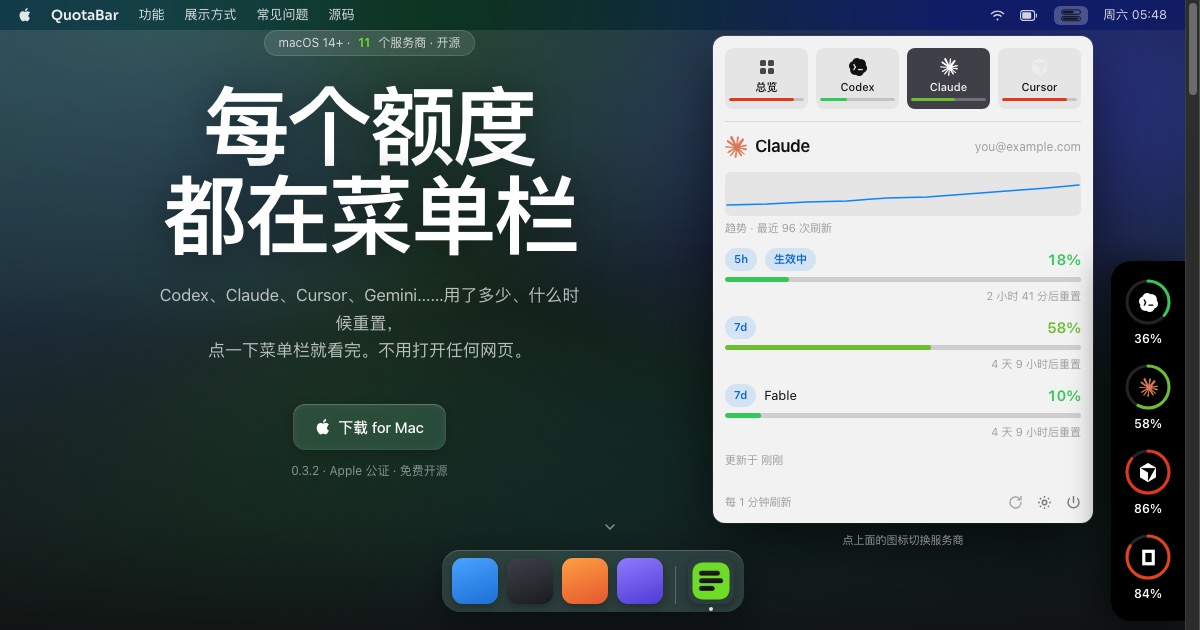
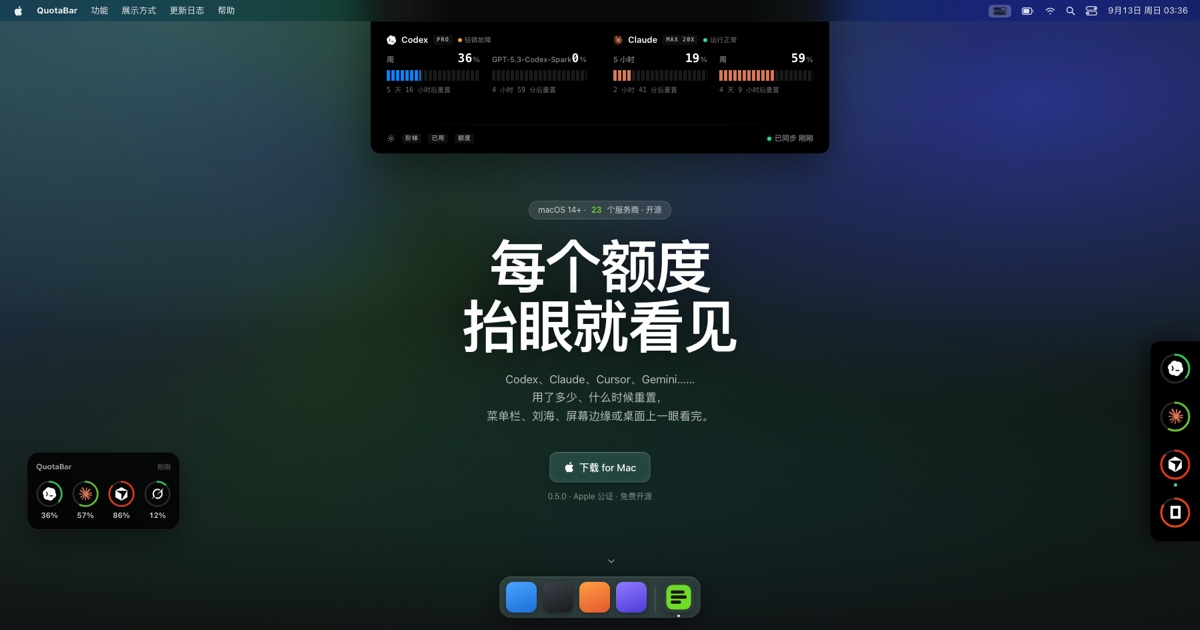
Site: a new share image and settings shot for 0.5.0, a subtitle that breaks on phrases, image changes bust the asset stamp

diff --git a/web/index.html b/web/index.html
@@ -14,21 +14,21 @@
 <meta property="og:site_name" content="QuotaBar">
 <meta property="og:locale" content="zh_CN">
 <!-- 1200×630 首屏截图。没有这张，分享到微信 / Slack / X 全是纯文字卡片。 -->
-<meta property="og:image" content="https://quota.bar/assets/og.jpg?v=b996ee81">
+<meta property="og:image" content="https://quota.bar/assets/og.jpg?v=e92ca10a">
 <meta property="og:image:width" content="1200">
 <meta property="og:image:height" content="630">
 <meta property="og:image:alt" content="QuotaBar 的刘海岛面板、边缘停靠条与桌面卡片">
 <meta name="twitter:card" content="summary_large_image">
 <meta name="twitter:title" content="QuotaBar — 每个 AI 编码额度，抬眼就看见">
 <meta name="twitter:description" content="用了多少、什么时候重置，一眼看完。本地读取，数据不出本机。">
-<meta name="twitter:image" content="https://quota.bar/assets/og.jpg?v=b996ee81">
-<link rel="icon" type="image/png" sizes="256x256" href="assets/icon.png?v=b996ee81">
+<meta name="twitter:image" content="https://quota.bar/assets/og.jpg?v=e92ca10a">
+<link rel="icon" type="image/png" sizes="256x256" href="assets/icon.png?v=e92ca10a">
 <link rel="icon" sizes="48x48" href="/favicon.ico">
 <!-- 单独一张 180×180 且不透明：iOS 会把透明区合成到黑底，直接复用带 alpha 的
      256×256 主图标会得到一圈黑边。 -->
-<link rel="apple-touch-icon" sizes="180x180" href="assets/apple-touch-icon.png?v=b996ee81">
-<link rel="stylesheet" href="styles.css?v=b996ee81">
-<link rel="stylesheet" href="replica.css?v=b996ee81">
+<link rel="apple-touch-icon" sizes="180x180" href="assets/apple-touch-icon.png?v=e92ca10a">
+<link rel="stylesheet" href="styles.css?v=e92ca10a">
+<link rel="stylesheet" href="replica.css?v=e92ca10a">
 <!-- 自建统计。defer，不阻塞渲染；跨域脚本不参与本站的 ?v= 指纹。 -->
 <script defer src="https://tongji.giantaccel.com/script.js" data-website-id="8085631e-cc5d-4563-819f-ddd04c1bdcfa"></script>
 </head>
@@ -132,7 +132,7 @@
       <div class="qb-island__col">
         <div class="qb-iprov">
           <div class="qb-iprov__title">
-            <img class="" src="assets/logos/codex.png?v=b996ee81" alt="">
+            <img class="" src="assets/logos/codex.png?v=e92ca10a" alt="">
             <span class="qb-iprov__name">Codex</span>
             <em class="qb-chip">PRO</em>
             <span class="qb-status qb-status--warn"><i></i>轻微故障</span>
@@ -154,7 +154,7 @@
       <div class="qb-island__col">
         <div class="qb-iprov">
           <div class="qb-iprov__title">
-            <img class="is-colour" src="assets/logos/claude.png?v=b996ee81" alt="">
+            <img class="is-colour" src="assets/logos/claude.png?v=e92ca10a" alt="">
             <span class="qb-iprov__name">Claude</span>
             <em class="qb-chip">MAX 20X</em>
             <span class="qb-status qb-status--ok"><i></i>运行正常</span>
@@ -192,7 +192,7 @@
           <circle class="qb-ring__arc" cx="23" cy="23" r="21"
                   style="stroke:#34C759;stroke-dasharray:132;stroke-dashoffset:84.5"/>
         </svg>
-        <span class="qb-ring__mark"><img src="assets/logos/codex.png?v=b996ee81" alt="codex"></span>
+        <span class="qb-ring__mark"><img src="assets/logos/codex.png?v=e92ca10a" alt="codex"></span>
       </span>
       <span class="qb-ring__dot" aria-hidden="true"></span>
     </div>
@@ -203,7 +203,7 @@
           <circle class="qb-ring__arc" cx="23" cy="23" r="21"
                   style="stroke:#6EBD2F;stroke-dasharray:132;stroke-dashoffset:55.4"/>
         </svg>
-        <span class="qb-ring__mark"><img class="is-colour" src="assets/logos/claude.png?v=b996ee81" alt="claude"></span>
+        <span class="qb-ring__mark"><img class="is-colour" src="assets/logos/claude.png?v=e92ca10a" alt="claude"></span>
       </span>
       <span class="qb-ring__dot" aria-hidden="true"></span>
     </div>
@@ -214,7 +214,7 @@
           <circle class="qb-ring__arc" cx="23" cy="23" r="21"
                   style="stroke:#E6361C;stroke-dasharray:132;stroke-dashoffset:18.5"/>
         </svg>
-        <span class="qb-ring__mark"><img src="assets/logos/cursor.png?v=b996ee81" alt="cursor"></span>
+        <span class="qb-ring__mark"><img src="assets/logos/cursor.png?v=e92ca10a" alt="cursor"></span>
       </span>
       <span class="qb-ring__dot" aria-hidden="true"></span>
     </div>
@@ -225,7 +225,7 @@
           <circle class="qb-ring__arc" cx="23" cy="23" r="21"
                   style="stroke:#E6421A;stroke-dasharray:132;stroke-dashoffset:21.1"/>
         </svg>
-        <span class="qb-ring__mark"><img src="assets/logos/opencode-go.png?v=b996ee81" alt="opencode-go"></span>
+        <span class="qb-ring__mark"><img src="assets/logos/opencode-go.png?v=e92ca10a" alt="opencode-go"></span>
       </span>
       <span class="qb-ring__dot" aria-hidden="true"></span>
     </div>
@@ -245,7 +245,7 @@
           <circle class="qb-ring__track" cx="23" cy="23" r="21"/>
           <circle class="qb-ring__arc" cx="23" cy="23" r="21" style="stroke:#34C759;stroke-dasharray:132;stroke-dashoffset:84.5"/>
         </svg>
-        <span class="qb-ring__mark"><img src="assets/logos/codex.png?v=b996ee81" alt="Codex"></span>
+        <span class="qb-ring__mark"><img src="assets/logos/codex.png?v=e92ca10a" alt="Codex"></span>
       </span>
       <span class="qb-ring__pct">36%</span>
     </div>
@@ -255,7 +255,7 @@
           <circle class="qb-ring__track" cx="23" cy="23" r="21"/>
           <circle class="qb-ring__arc" cx="23" cy="23" r="21" style="stroke:#6EBD2F;stroke-dasharray:132;stroke-dashoffset:55.4"/>
         </svg>
-        <span class="qb-ring__mark"><img class="is-colour" src="assets/logos/claude.png?v=b996ee81" alt="Claude"></span>
+        <span class="qb-ring__mark"><img class="is-colour" src="assets/logos/claude.png?v=e92ca10a" alt="Claude"></span>
       </span>
       <span class="qb-ring__pct">58%</span>
     </div>
@@ -265,7 +265,7 @@
           <circle class="qb-ring__track" cx="23" cy="23" r="21"/>
           <circle class="qb-ring__arc" cx="23" cy="23" r="21" style="stroke:#E6361C;stroke-dasharray:132;stroke-dashoffset:18.5"/>
         </svg>
-        <span class="qb-ring__mark"><img src="assets/logos/cursor.png?v=b996ee81" alt="Cursor"></span>
+        <span class="qb-ring__mark"><img src="assets/logos/cursor.png?v=e92ca10a" alt="Cursor"></span>
       </span>
       <span class="qb-ring__pct">86%</span>
     </div>
@@ -275,7 +275,7 @@
           <circle class="qb-ring__track" cx="23" cy="23" r="21"/>
           <circle class="qb-ring__arc" cx="23" cy="23" r="21" style="stroke:#34C759;stroke-dasharray:132;stroke-dashoffset:117.5"/>
         </svg>
-        <span class="qb-ring__mark"><img src="assets/logos/grok.png?v=b996ee81" alt="Grok"></span>
+        <span class="qb-ring__mark"><img src="assets/logos/grok.png?v=e92ca10a" alt="Grok"></span>
       </span>
       <span class="qb-ring__pct">11%</span>
     </div>
@@ -286,8 +286,9 @@
     <span class="eyebrow">macOS 14+ · <b class="provider-count">23</b> 个服务商 · 开源</span>
     <h1>每个额度<br>抬眼就看见</h1>
     <p class="hero__sub">
-      Codex、Claude、Cursor、Gemini……用了多少、什么时候重置，<br>
-      点一下菜单栏、悬停到刘海或屏幕边缘，或者看一眼桌面卡片就知道。
+      Codex、Claude、Cursor、Gemini……<br>
+      用了多少、什么时候重置，<br>
+      菜单栏、刘海、屏幕边缘或桌面上一眼看完。
     </p>
     <div class="hero__cta">
       <a class="btn btn--primary" href="https://github.com/gentpan/quotabar/releases/latest">
@@ -307,7 +308,7 @@
     <span class="dock__tile" style="background:linear-gradient(160deg,#8e7bff,#4f3ad6)" title="浏览器"></span>
     <span class="dock__sep"></span>
     <a class="dock__tile dock__tile--app" href="https://github.com/gentpan/quotabar/releases/latest" title="QuotaBar">
-      <img src="assets/icon.png?v=b996ee81" alt="QuotaBar">
+      <img src="assets/icon.png?v=e92ca10a" alt="QuotaBar">
     </a>
   </div>
 
@@ -323,54 +324,54 @@
     <p class="providers__head">支持 <b class="provider-count">23</b> 个 AI 编码服务</p>
     <div class="providers__track">
       <ul class="providers__row">
-          <li class="prov"><img class="prov__logo is-mono" src="assets/logos/codex.png?v=b996ee81" alt="" width="24" height="24" loading="lazy" decoding="async"><span>Codex</span></li>
-          <li class="prov"><img class="prov__logo" src="assets/logos/claude.png?v=b996ee81" alt="" width="24" height="24" loading="lazy" decoding="async"><span>Claude</span></li>
-          <li class="prov"><img class="prov__logo is-mono" src="assets/logos/cursor.png?v=b996ee81" alt="" width="24" height="24" loading="lazy" decoding="async"><span>Cursor</span></li>
-          <li class="prov"><img class="prov__logo" src="assets/logos/kimi.png?v=b996ee81" alt="" width="24" height="24" loading="lazy" decoding="async"><span>Kimi Code</span></li>
-          <li class="prov"><img class="prov__logo is-mono" src="assets/logos/zai.png?v=b996ee81" alt="" width="24" height="24" loading="lazy" decoding="async"><span>z.ai</span></li>
-          <li class="prov"><img class="prov__logo is-mono" src="assets/logos/opencode-go.png?v=b996ee81" alt="" width="24" height="24" loading="lazy" decoding="async"><span>OpenCode Go</span></li>
-          <li class="prov"><img class="prov__logo" src="assets/logos/minimax.png?v=b996ee81" alt="" width="24" height="24" loading="lazy" decoding="async"><span>MiniMax</span></li>
-          <li class="prov"><img class="prov__logo" src="assets/logos/gemini.png?v=b996ee81" alt="" width="24" height="24" loading="lazy" decoding="async"><span>Gemini</span></li>
-          <li class="prov"><img class="prov__logo is-mono" src="assets/logos/manus.png?v=b996ee81" alt="" width="24" height="24" loading="lazy" decoding="async"><span>Manus</span></li>
-          <li class="prov"><img class="prov__logo" src="assets/logos/deepseek.png?v=b996ee81" alt="" width="24" height="24" loading="lazy" decoding="async"><span>DeepSeek</span></li>
-          <li class="prov"><img class="prov__logo is-mono" src="assets/logos/grok.png?v=b996ee81" alt="" width="24" height="24" loading="lazy" decoding="async"><span>Grok</span></li>
-          <li class="prov"><img class="prov__logo" src="assets/logos/antigravity.png?v=b996ee81" alt="" width="24" height="24" loading="lazy" decoding="async"><span>Antigravity</span></li>
-          <li class="prov"><img class="prov__logo is-mono" src="assets/logos/qwen.png?v=b996ee81" alt="" width="24" height="24" loading="lazy" decoding="async"><span>Qwen Cloud</span></li>
-          <li class="prov"><img class="prov__logo" src="assets/logos/alibaba.png?v=b996ee81" alt="" width="24" height="24" loading="lazy" decoding="async"><span>阿里云百炼</span></li>
-          <li class="prov"><img class="prov__logo" src="assets/logos/volcengine.png?v=b996ee81" alt="" width="24" height="24" loading="lazy" decoding="async"><span>火山方舟</span></li>
-          <li class="prov"><img class="prov__logo" src="assets/logos/zhipu.png?v=b996ee81" alt="" width="24" height="24" loading="lazy" decoding="async"><span>智谱 GLM</span></li>
-          <li class="prov"><img class="prov__logo is-mono" src="assets/logos/moonshot.png?v=b996ee81" alt="" width="24" height="24" loading="lazy" decoding="async"><span>Kimi 开放平台</span></li>
-          <li class="prov"><img class="prov__logo is-mono" src="assets/logos/copilot.png?v=b996ee81" alt="" width="24" height="24" loading="lazy" decoding="async"><span>GitHub Copilot</span></li>
-          <li class="prov"><img class="prov__logo is-mono" src="assets/logos/openrouter.png?v=b996ee81" alt="" width="24" height="24" loading="lazy" decoding="async"><span>OpenRouter</span></li>
-          <li class="prov"><img class="prov__logo" src="assets/logos/mimo.png?v=b996ee81" alt="" width="24" height="24" loading="lazy" decoding="async"><span>小米 MiMo</span></li>
-          <li class="prov"><img class="prov__logo is-dark" src="assets/logos/qoder.png?v=b996ee81" alt="" width="24" height="24" loading="lazy" decoding="async"><span>Qoder</span></li>
-          <li class="prov"><img class="prov__logo is-mono" src="assets/logos/windsurf.png?v=b996ee81" alt="" width="24" height="24" loading="lazy" decoding="async"><span>Windsurf</span></li>
-          <li class="prov"><img class="prov__logo" src="assets/logos/kiro.png?v=b996ee81" alt="" width="24" height="24" loading="lazy" decoding="async"><span>Kiro</span></li>
+          <li class="prov"><img class="prov__logo is-mono" src="assets/logos/codex.png?v=e92ca10a" alt="" width="24" height="24" loading="lazy" decoding="async"><span>Codex</span></li>
+          <li class="prov"><img class="prov__logo" src="assets/logos/claude.png?v=e92ca10a" alt="" width="24" height="24" loading="lazy" decoding="async"><span>Claude</span></li>
+          <li class="prov"><img class="prov__logo is-mono" src="assets/logos/cursor.png?v=e92ca10a" alt="" width="24" height="24" loading="lazy" decoding="async"><span>Cursor</span></li>
+          <li class="prov"><img class="prov__logo" src="assets/logos/kimi.png?v=e92ca10a" alt="" width="24" height="24" loading="lazy" decoding="async"><span>Kimi Code</span></li>
+          <li class="prov"><img class="prov__logo is-mono" src="assets/logos/zai.png?v=e92ca10a" alt="" width="24" height="24" loading="lazy" decoding="async"><span>z.ai</span></li>
+          <li class="prov"><img class="prov__logo is-mono" src="assets/logos/opencode-go.png?v=e92ca10a" alt="" width="24" height="24" loading="lazy" decoding="async"><span>OpenCode Go</span></li>
+          <li class="prov"><img class="prov__logo" src="assets/logos/minimax.png?v=e92ca10a" alt="" width="24" height="24" loading="lazy" decoding="async"><span>MiniMax</span></li>
+          <li class="prov"><img class="prov__logo" src="assets/logos/gemini.png?v=e92ca10a" alt="" width="24" height="24" loading="lazy" decoding="async"><span>Gemini</span></li>
+          <li class="prov"><img class="prov__logo is-mono" src="assets/logos/manus.png?v=e92ca10a" alt="" width="24" height="24" loading="lazy" decoding="async"><span>Manus</span></li>
+          <li class="prov"><img class="prov__logo" src="assets/logos/deepseek.png?v=e92ca10a" alt="" width="24" height="24" loading="lazy" decoding="async"><span>DeepSeek</span></li>
+          <li class="prov"><img class="prov__logo is-mono" src="assets/logos/grok.png?v=e92ca10a" alt="" width="24" height="24" loading="lazy" decoding="async"><span>Grok</span></li>
+          <li class="prov"><img class="prov__logo" src="assets/logos/antigravity.png?v=e92ca10a" alt="" width="24" height="24" loading="lazy" decoding="async"><span>Antigravity</span></li>
+          <li class="prov"><img class="prov__logo is-mono" src="assets/logos/qwen.png?v=e92ca10a" alt="" width="24" height="24" loading="lazy" decoding="async"><span>Qwen Cloud</span></li>
+          <li class="prov"><img class="prov__logo" src="assets/logos/alibaba.png?v=e92ca10a" alt="" width="24" height="24" loading="lazy" decoding="async"><span>阿里云百炼</span></li>
+          <li class="prov"><img class="prov__logo" src="assets/logos/volcengine.png?v=e92ca10a" alt="" width="24" height="24" loading="lazy" decoding="async"><span>火山方舟</span></li>
+          <li class="prov"><img class="prov__logo" src="assets/logos/zhipu.png?v=e92ca10a" alt="" width="24" height="24" loading="lazy" decoding="async"><span>智谱 GLM</span></li>
+          <li class="prov"><img class="prov__logo is-mono" src="assets/logos/moonshot.png?v=e92ca10a" alt="" width="24" height="24" loading="lazy" decoding="async"><span>Kimi 开放平台</span></li>
+          <li class="prov"><img class="prov__logo is-mono" src="assets/logos/copilot.png?v=e92ca10a" alt="" width="24" height="24" loading="lazy" decoding="async"><span>GitHub Copilot</span></li>
+          <li class="prov"><img class="prov__logo is-mono" src="assets/logos/openrouter.png?v=e92ca10a" alt="" width="24" height="24" loading="lazy" decoding="async"><span>OpenRouter</span></li>
+          <li class="prov"><img class="prov__logo" src="assets/logos/mimo.png?v=e92ca10a" alt="" width="24" height="24" loading="lazy" decoding="async"><span>小米 MiMo</span></li>
+          <li class="prov"><img class="prov__logo is-dark" src="assets/logos/qoder.png?v=e92ca10a" alt="" width="24" height="24" loading="lazy" decoding="async"><span>Qoder</span></li>
+          <li class="prov"><img class="prov__logo is-mono" src="assets/logos/windsurf.png?v=e92ca10a" alt="" width="24" height="24" loading="lazy" decoding="async"><span>Windsurf</span></li>
+          <li class="prov"><img class="prov__logo" src="assets/logos/kiro.png?v=e92ca10a" alt="" width="24" height="24" loading="lazy" decoding="async"><span>Kiro</span></li>
       </ul>
       <ul class="providers__row" aria-hidden="true">
-          <li class="prov"><img class="prov__logo is-mono" src="assets/logos/codex.png?v=b996ee81" alt="" width="24" height="24" loading="lazy" decoding="async"><span>Codex</span></li>
-          <li class="prov"><img class="prov__logo" src="assets/logos/claude.png?v=b996ee81" alt="" width="24" height="24" loading="lazy" decoding="async"><span>Claude</span></li>
-          <li class="prov"><img class="prov__logo is-mono" src="assets/logos/cursor.png?v=b996ee81" alt="" width="24" height="24" loading="lazy" decoding="async"><span>Cursor</span></li>
-          <li class="prov"><img class="prov__logo" src="assets/logos/kimi.png?v=b996ee81" alt="" width="24" height="24" loading="lazy" decoding="async"><span>Kimi Code</span></li>
-          <li class="prov"><img class="prov__logo is-mono" src="assets/logos/zai.png?v=b996ee81" alt="" width="24" height="24" loading="lazy" decoding="async"><span>z.ai</span></li>
-          <li class="prov"><img class="prov__logo is-mono" src="assets/logos/opencode-go.png?v=b996ee81" alt="" width="24" height="24" loading="lazy" decoding="async"><span>OpenCode Go</span></li>
-          <li class="prov"><img class="prov__logo" src="assets/logos/minimax.png?v=b996ee81" alt="" width="24" height="24" loading="lazy" decoding="async"><span>MiniMax</span></li>
-          <li class="prov"><img class="prov__logo" src="assets/logos/gemini.png?v=b996ee81" alt="" width="24" height="24" loading="lazy" decoding="async"><span>Gemini</span></li>
-          <li class="prov"><img class="prov__logo is-mono" src="assets/logos/manus.png?v=b996ee81" alt="" width="24" height="24" loading="lazy" decoding="async"><span>Manus</span></li>
-          <li class="prov"><img class="prov__logo" src="assets/logos/deepseek.png?v=b996ee81" alt="" width="24" height="24" loading="lazy" decoding="async"><span>DeepSeek</span></li>
-          <li class="prov"><img class="prov__logo is-mono" src="assets/logos/grok.png?v=b996ee81" alt="" width="24" height="24" loading="lazy" decoding="async"><span>Grok</span></li>
-          <li class="prov"><img class="prov__logo" src="assets/logos/antigravity.png?v=b996ee81" alt="" width="24" height="24" loading="lazy" decoding="async"><span>Antigravity</span></li>
-          <li class="prov"><img class="prov__logo is-mono" src="assets/logos/qwen.png?v=b996ee81" alt="" width="24" height="24" loading="lazy" decoding="async"><span>Qwen Cloud</span></li>
-          <li class="prov"><img class="prov__logo" src="assets/logos/alibaba.png?v=b996ee81" alt="" width="24" height="24" loading="lazy" decoding="async"><span>阿里云百炼</span></li>
-          <li class="prov"><img class="prov__logo" src="assets/logos/volcengine.png?v=b996ee81" alt="" width="24" height="24" loading="lazy" decoding="async"><span>火山方舟</span></li>
-          <li class="prov"><img class="prov__logo" src="assets/logos/zhipu.png?v=b996ee81" alt="" width="24" height="24" loading="lazy" decoding="async"><span>智谱 GLM</span></li>
-          <li class="prov"><img class="prov__logo is-mono" src="assets/logos/moonshot.png?v=b996ee81" alt="" width="24" height="24" loading="lazy" decoding="async"><span>Kimi 开放平台</span></li>
-          <li class="prov"><img class="prov__logo is-mono" src="assets/logos/copilot.png?v=b996ee81" alt="" width="24" height="24" loading="lazy" decoding="async"><span>GitHub Copilot</span></li>
-          <li class="prov"><img class="prov__logo is-mono" src="assets/logos/openrouter.png?v=b996ee81" alt="" width="24" height="24" loading="lazy" decoding="async"><span>OpenRouter</span></li>
-          <li class="prov"><img class="prov__logo" src="assets/logos/mimo.png?v=b996ee81" alt="" width="24" height="24" loading="lazy" decoding="async"><span>小米 MiMo</span></li>
-          <li class="prov"><img class="prov__logo is-dark" src="assets/logos/qoder.png?v=b996ee81" alt="" width="24" height="24" loading="lazy" decoding="async"><span>Qoder</span></li>
-          <li class="prov"><img class="prov__logo is-mono" src="assets/logos/windsurf.png?v=b996ee81" alt="" width="24" height="24" loading="lazy" decoding="async"><span>Windsurf</span></li>
-          <li class="prov"><img class="prov__logo" src="assets/logos/kiro.png?v=b996ee81" alt="" width="24" height="24" loading="lazy" decoding="async"><span>Kiro</span></li>
+          <li class="prov"><img class="prov__logo is-mono" src="assets/logos/codex.png?v=e92ca10a" alt="" width="24" height="24" loading="lazy" decoding="async"><span>Codex</span></li>
+          <li class="prov"><img class="prov__logo" src="assets/logos/claude.png?v=e92ca10a" alt="" width="24" height="24" loading="lazy" decoding="async"><span>Claude</span></li>
+          <li class="prov"><img class="prov__logo is-mono" src="assets/logos/cursor.png?v=e92ca10a" alt="" width="24" height="24" loading="lazy" decoding="async"><span>Cursor</span></li>
+          <li class="prov"><img class="prov__logo" src="assets/logos/kimi.png?v=e92ca10a" alt="" width="24" height="24" loading="lazy" decoding="async"><span>Kimi Code</span></li>
+          <li class="prov"><img class="prov__logo is-mono" src="assets/logos/zai.png?v=e92ca10a" alt="" width="24" height="24" loading="lazy" decoding="async"><span>z.ai</span></li>
+          <li class="prov"><img class="prov__logo is-mono" src="assets/logos/opencode-go.png?v=e92ca10a" alt="" width="24" height="24" loading="lazy" decoding="async"><span>OpenCode Go</span></li>
+          <li class="prov"><img class="prov__logo" src="assets/logos/minimax.png?v=e92ca10a" alt="" width="24" height="24" loading="lazy" decoding="async"><span>MiniMax</span></li>
+          <li class="prov"><img class="prov__logo" src="assets/logos/gemini.png?v=e92ca10a" alt="" width="24" height="24" loading="lazy" decoding="async"><span>Gemini</span></li>
+          <li class="prov"><img class="prov__logo is-mono" src="assets/logos/manus.png?v=e92ca10a" alt="" width="24" height="24" loading="lazy" decoding="async"><span>Manus</span></li>
+          <li class="prov"><img class="prov__logo" src="assets/logos/deepseek.png?v=e92ca10a" alt="" width="24" height="24" loading="lazy" decoding="async"><span>DeepSeek</span></li>
+          <li class="prov"><img class="prov__logo is-mono" src="assets/logos/grok.png?v=e92ca10a" alt="" width="24" height="24" loading="lazy" decoding="async"><span>Grok</span></li>
+          <li class="prov"><img class="prov__logo" src="assets/logos/antigravity.png?v=e92ca10a" alt="" width="24" height="24" loading="lazy" decoding="async"><span>Antigravity</span></li>
+          <li class="prov"><img class="prov__logo is-mono" src="assets/logos/qwen.png?v=e92ca10a" alt="" width="24" height="24" loading="lazy" decoding="async"><span>Qwen Cloud</span></li>
+          <li class="prov"><img class="prov__logo" src="assets/logos/alibaba.png?v=e92ca10a" alt="" width="24" height="24" loading="lazy" decoding="async"><span>阿里云百炼</span></li>
+          <li class="prov"><img class="prov__logo" src="assets/logos/volcengine.png?v=e92ca10a" alt="" width="24" height="24" loading="lazy" decoding="async"><span>火山方舟</span></li>
+          <li class="prov"><img class="prov__logo" src="assets/logos/zhipu.png?v=e92ca10a" alt="" width="24" height="24" loading="lazy" decoding="async"><span>智谱 GLM</span></li>
+          <li class="prov"><img class="prov__logo is-mono" src="assets/logos/moonshot.png?v=e92ca10a" alt="" width="24" height="24" loading="lazy" decoding="async"><span>Kimi 开放平台</span></li>
+          <li class="prov"><img class="prov__logo is-mono" src="assets/logos/copilot.png?v=e92ca10a" alt="" width="24" height="24" loading="lazy" decoding="async"><span>GitHub Copilot</span></li>
+          <li class="prov"><img class="prov__logo is-mono" src="assets/logos/openrouter.png?v=e92ca10a" alt="" width="24" height="24" loading="lazy" decoding="async"><span>OpenRouter</span></li>
+          <li class="prov"><img class="prov__logo" src="assets/logos/mimo.png?v=e92ca10a" alt="" width="24" height="24" loading="lazy" decoding="async"><span>小米 MiMo</span></li>
+          <li class="prov"><img class="prov__logo is-dark" src="assets/logos/qoder.png?v=e92ca10a" alt="" width="24" height="24" loading="lazy" decoding="async"><span>Qoder</span></li>
+          <li class="prov"><img class="prov__logo is-mono" src="assets/logos/windsurf.png?v=e92ca10a" alt="" width="24" height="24" loading="lazy" decoding="async"><span>Windsurf</span></li>
+          <li class="prov"><img class="prov__logo" src="assets/logos/kiro.png?v=e92ca10a" alt="" width="24" height="24" loading="lazy" decoding="async"><span>Kiro</span></li>
       </ul>
     </div>
   </section>
@@ -422,7 +423,7 @@
       <div class="cards">
         <div class="card">
           <div class="card__art">
-            <img src="assets/notch.png?v=b996ee81" alt="刘海条：服务商的图标与读数分列刘海两侧" style="max-width:88%" loading="lazy" decoding="async">
+            <img src="assets/notch.png?v=e92ca10a" alt="刘海条：服务商的图标与读数分列刘海两侧" style="max-width:88%" loading="lazy" decoding="async">
           </div>
           <div class="card__body">
             <h3 id="surface-panels">不止菜单栏</h3>
@@ -456,7 +457,7 @@
         <p><span class="provider-count">23</span> 个服务商各自的登录方式、图标样式、提醒阈值、桌面卡片、用量统计、服务状态——都在一个窗口里，中英文界面随你选。有话说，反馈页直接发，不用登录。</p>
       </div>
       <div class="showcase">
-        <img src="assets/settings.png?v=b996ee81" alt="QuotaBar 设置窗口：左侧黑色导航，右侧服务商列表，每家带服务状态" loading="lazy" decoding="async">
+        <img src="assets/settings.png?v=e92ca10a" alt="QuotaBar 设置窗口：左侧黑色导航，右侧服务商列表，每家带服务状态" loading="lazy" decoding="async">
       </div>
     </div>
   </section>
@@ -564,7 +565,7 @@
 
 <footer class="footer">
   <div class="shell">
-    <img class="footer__icon" src="assets/icon.png?v=b996ee81" alt="" loading="lazy" decoding="async">
+    <img class="footer__icon" src="assets/icon.png?v=e92ca10a" alt="" loading="lazy" decoding="async">
     <div class="footer__links">
       <a href="https://github.com/gentpan/quotabar/releases/latest">下载</a>
       <a href="https://github.com/gentpan/quotabar">源码</a>
@@ -580,7 +581,7 @@
   </div>
 </footer>
 
-<script src="app.js?v=b996ee81"></script>
-<script src="replica.js?v=b996ee81"></script>
+<script src="app.js?v=e92ca10a"></script>
+<script src="replica.js?v=e92ca10a"></script>
 </body>
 </html>

diff --git a/web/changelog.html b/web/changelog.html
@@ -7,17 +7,17 @@
 <meta name="description" content="QuotaBar 每个版本、每一天的功能新增、样式调整和问题修复。">
 <meta name="theme-color" content="#101112">
 <link rel="canonical" href="https://quota.bar/changelog.html">
-<link rel="icon" type="image/png" sizes="256x256" href="assets/icon.png?v=b996ee81">
+<link rel="icon" type="image/png" sizes="256x256" href="assets/icon.png?v=e92ca10a">
 <link rel="icon" sizes="48x48" href="/favicon.ico">
-<link rel="apple-touch-icon" sizes="180x180" href="assets/apple-touch-icon.png?v=b996ee81">
-<link rel="stylesheet" href="styles.css?v=b996ee81">
+<link rel="apple-touch-icon" sizes="180x180" href="assets/apple-touch-icon.png?v=e92ca10a">
+<link rel="stylesheet" href="styles.css?v=e92ca10a">
 <script defer src="https://tongji.giantaccel.com/script.js" data-website-id="8085631e-cc5d-4563-819f-ddd04c1bdcfa"></script>
 <!-- 由 Scripts/sync_changelog.py 从 CHANGELOG.md 生成，请勿手改。 -->
 </head>
 <body class="logpage">
 <header class="logbar">
   <div class="shell logbar__inner">
-    <a class="logbar__brand wordmark" href="./"><img src="assets/icon.png?v=b996ee81" alt="" width="22" height="22">QuotaBar</a>
+    <a class="logbar__brand wordmark" href="./"><img src="assets/icon.png?v=e92ca10a" alt="" width="22" height="22">QuotaBar</a>
     <nav class="logbar__links">
       <a href="./">首页</a>
       <a href="https://github.com/gentpan/quotabar/releases/latest">下载</a>

diff --git a/web/replica.js b/web/replica.js
@@ -42,7 +42,7 @@
   // 指纹由 deploy_site.sh 统一改写（和 index.html、styles.css 里的字体一样）。
   // 写死 ?v=1 的话，指纹一升级，JS 渲染出的这些图不会跟着刷新。
   var LOGO = "assets/logos/";
-  var LOGOV = "?v=b996ee81";
+  var LOGOV = "?v=e92ca10a";
   var DATA = {
     codex: {
       name: "Codex", logo: "codex.png", plan: "Pro", acct: "you@example.com",

diff --git a/web/styles.css b/web/styles.css
@@ -49,7 +49,7 @@
 
 @font-face {
   font-family: "Sora";
-  src: url("assets/fonts/Sora-VariableFont_wght.ttf?v=b996ee81") format("truetype-variations");
+  src: url("assets/fonts/Sora-VariableFont_wght.ttf?v=e92ca10a") format("truetype-variations");
   font-weight: 100 800;
   font-display: swap;
 }
